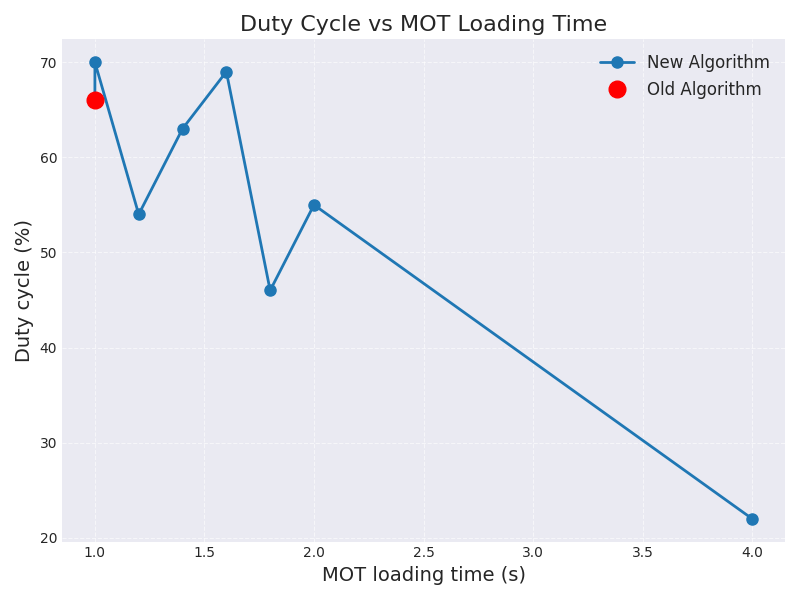
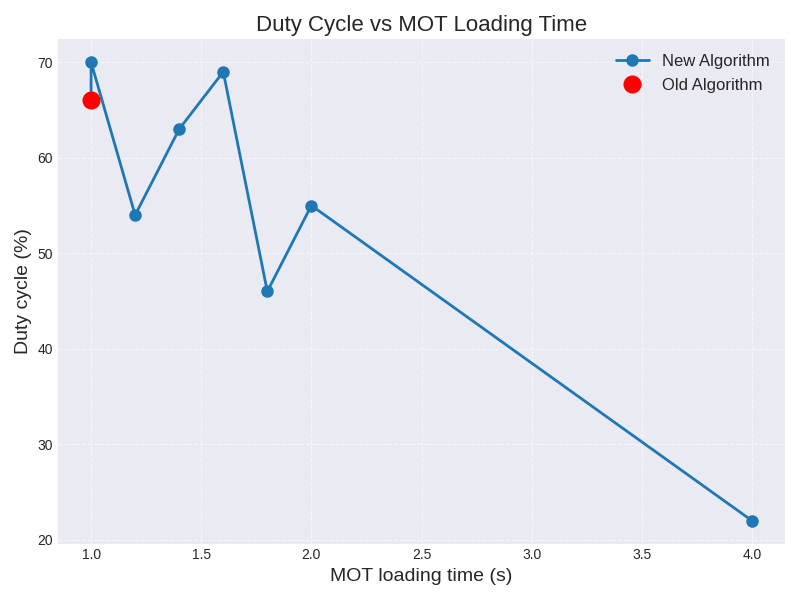
feat: include g2 in plots

diff --git a/code/analysis/trapping/trapping_performance.py b/code/analysis/trapping/trapping_performance.py
@@ -9,6 +9,8 @@ trapping_times = [27.50, 30.10, 22.85, 23.54, 28.86, 21.66, 25.18, 18.73]  # s
 trapping_time_errors = [7.08, 4.97, 5.07, 5.57, 5.30, 4.21, 6.53, 4.30]  # s
 trapping_probs = [17, 20, 16, 22, 25, 13, 17, 12]  # %
 duty_cycles = [66, 70, 54, 63, 69, 46, 55, 22]  # %
+g2 = [0.0158,0.0212,0.0059,0.0145,0.0101,0.0158,0.0072,0.0585]
+g2_errors = [0.65e-2,0.55e-2,0.34e-2,0.44e-2,0.32e-2,0.65e-2,0.36e-2,1.38e-2]
 
 # Identify the index of the old algorithm
 old_idx = 0
@@ -84,7 +86,7 @@ plot_common(
 )
 plt.savefig("trapping_probability.png")
 
-# Plot 3: Duty cycle vs Trap loading time
+# Plot 3: Duty cycle vs MOT loading time
 plt.figure(figsize=(8, 6))
 plt.plot(
     mot_load_times,
@@ -105,5 +107,41 @@ plt.plot(
 )
 plot_common("MOT loading time (s)", "Duty cycle (%)", "Duty Cycle vs MOT Loading Time")
 plt.savefig("duty_cycle.png")
+
+# Plot 4: g2 vs MOT loading time
+plt.figure(figsize=(8, 6))
+plt.errorbar(
+    mot_load_times,
+    g2,
+    yerr=g2_errors,
+    fmt="o-",
+    color="tab:blue",
+    ecolor="tab:blue",
+    elinewidth=2,
+    capsize=6,
+    alpha=0.8,
+    markersize=8,
+    label="New Algorithm",
+)
+plt.errorbar(
+    mot_load_times[old_idx],
+    g2[old_idx],
+    yerr=g2_errors[old_idx],
+    fmt="o",
+    color="red",
+    ecolor="red",
+    elinewidth=2,
+    capsize=6,
+    markersize=12,
+    label="Old Algorithm",
+)
+plot_common(
+    "MOT loading time (s)",
+    "g2 (a.u.)",
+    "g2 vs MOT Loading Time",
+)
+plt.savefig("g2.png")
+
+
 
 plt.show()
